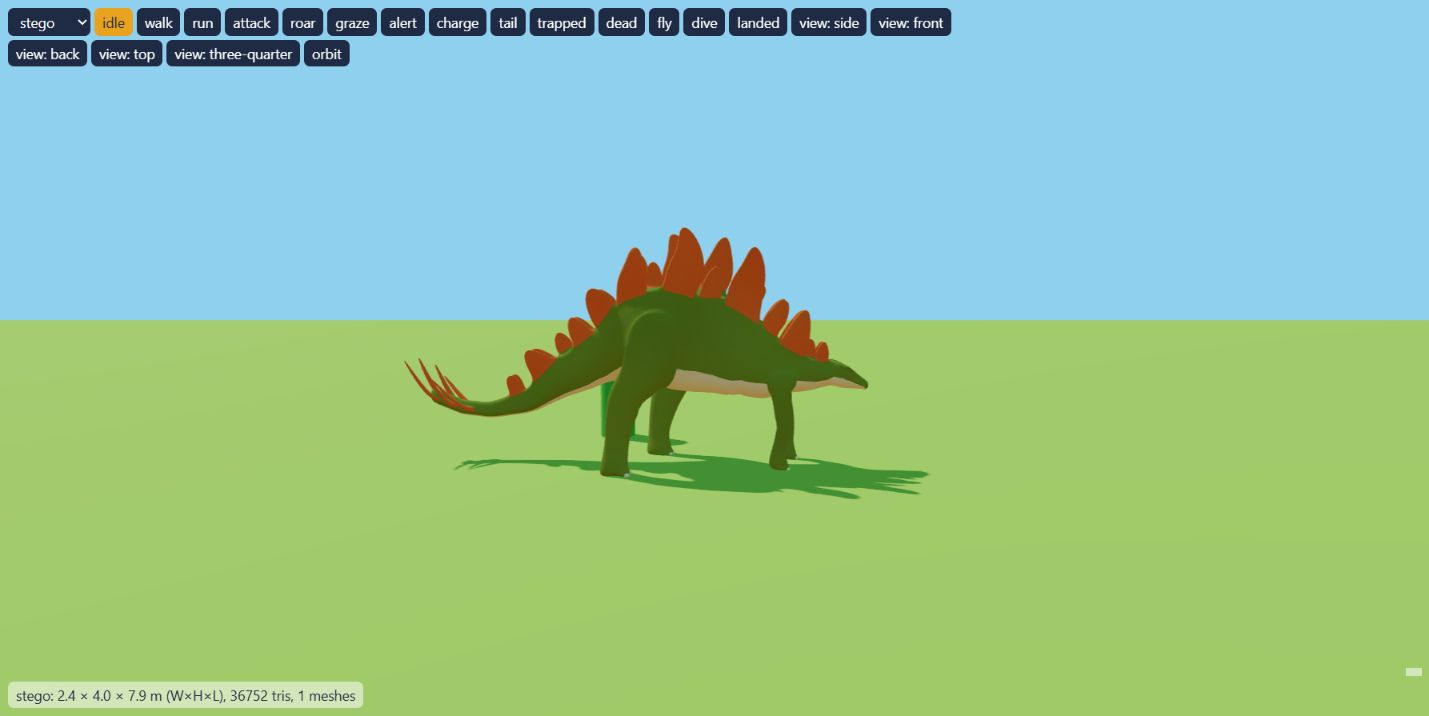
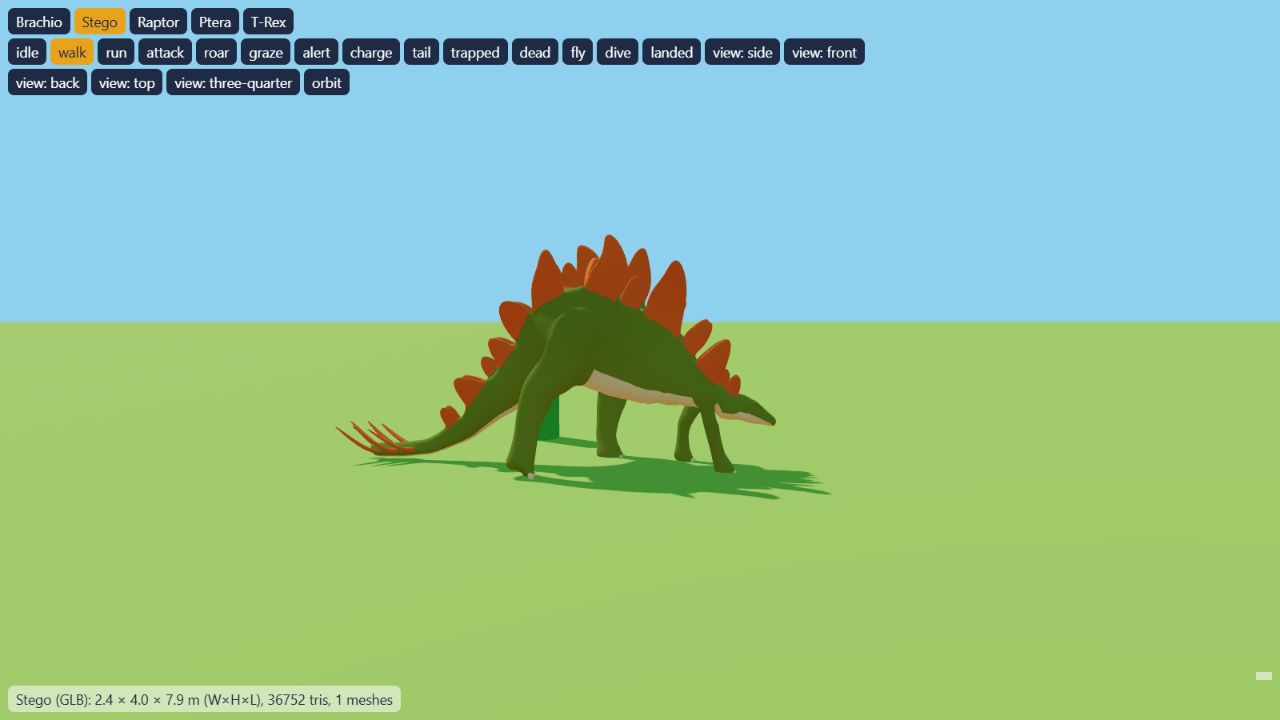
Fix dinosaur preview switching with in-place species buttons

Changed region(s): [[0.25, 0.3073, 0.6562, 0.7067], [0.0, 0.0, 0.6875, 0.1536], [0.0, 0.9525, 0.3125, 1.0]]

diff --git a/src/client/models/dino/preview.html b/src/client/models/dino/preview.html
@@ -10,7 +10,9 @@
   <style>
     :root { color-scheme: light; }
     body { margin: 0; overflow: hidden; background: #8fd0ef; font: 14px system-ui, sans-serif; }
-    #ui { position: fixed; left: 8px; top: 8px; display: flex; flex-wrap: wrap; gap: 4px; max-width: 70vw; }
+    canvas { display: block; }
+    #ui { position: fixed; z-index: 10; left: 8px; top: 8px; display: flex; flex-wrap: wrap; gap: 4px; max-width: min(900px, calc(100vw - 16px)); }
+    #species { display: flex; flex-wrap: wrap; gap: 4px; width: 100%; }
     #ui button, #ui select, #ui label { font: inherit; padding: 4px 8px; border-radius: 6px; border: 0; background: #1f2a44; color: #fff; }
     #ui button[aria-pressed="true"] { background: #e8a21c; color: #1f2a44; }
     #info { position: fixed; left: 8px; bottom: 8px; color: #1f2a44; background: #fff8; padding: 4px 8px; border-radius: 6px; }
@@ -28,13 +30,13 @@
     import { preloadDinoModels } from './glbDino.js';
 
     const qs = new URLSearchParams(location.search);
-    const type = SPECIES[qs.get('type')] ? qs.get('type') : 'brachio';
+    let type = SPECIES[qs.get('type')] ? qs.get('type') : 'brachio';
     document.getElementById('info').textContent = 'Loading dinosaur models…';
     await preloadDinoModels();
-    const species = SPECIES[type];
-    const build = species.build;
-    const ANIM = species.anim;
-    const extra = species.extraUpdate;
+    let species = SPECIES[type];
+    let build = species.build;
+    let ANIM = species.anim;
+    let extra = species.extraUpdate;
 
     const renderer = new THREE.WebGLRenderer({ antialias: true });
     renderer.setPixelRatio(Math.min(devicePixelRatio, 2));
@@ -61,24 +63,28 @@
     ref.castShadow = true;
     scene.add(ref);
 
-    const rig = build();
+    let rig = build();
     scene.add(rig.root);
-    const anim = species.createAnimator(rig);
+    let anim = species.createAnimator(rig);
     // ?count=20 provides a repeatable skin/mixer/render performance scene.
     const count = Math.min(20, Math.max(1, Number(qs.get('count')) || 1));
     const copies = [];
-    for (let i = 1; i < count; i++) {
-      const copy = build();
-      copy.root.position.set((i % 5 - 2) * 4, 0, (Math.floor(i / 5) + 1) * 5);
-      scene.add(copy.root);
-      copies.push({ rig: copy, anim: species.createAnimator(copy), st: 0, spd: 0, pos: copy.root.position });
+    function addCopies() {
+      for (let i = 1; i < count; i++) {
+        const copy = build();
+        copy.root.position.set((i % 5 - 2) * 4, 0, (Math.floor(i / 5) + 1) * 5);
+        scene.add(copy.root);
+        copies.push({ rig: copy, anim: species.createAnimator(copy), st: 0, spd: 0, pos: copy.root.position });
+      }
     }
+    addCopies();
     const box = new THREE.Box3().setFromObject(rig.root, true);   // precise: skinned vertices, not culling bounds
     const size = box.getSize(new THREE.Vector3());
     const camera = new THREE.PerspectiveCamera(45, innerWidth / innerHeight, 0.1, 500);
     const zoom = parseFloat(qs.get('zoom') || '1');
     const focus = qs.get('focus') || 'body';   // body | head
-    const R = (focus === 'head' ? Math.max(size.x, size.y, size.z) * 0.5 + 1 : Math.max(size.x, size.y, size.z) * 1.6 + 2) / zoom;
+    const cameraRadius = () => (focus === 'head' ? Math.max(size.x, size.y, size.z) * 0.5 + 1 : Math.max(size.x, size.y, size.z) * 1.6 + 2) / zoom;
+    let R = cameraRadius();
     const _fp = new THREE.Vector3();
 
     const STATES = ['idle', 'walk', 'run', 'attack', 'roar', 'graze', 'alert', 'charge', 'tail', 'trapped', 'dead', 'fly', 'dive', 'landed'];
@@ -86,16 +92,26 @@
     let view = qs.get('view') || 'side';
     let orbit = qs.get('orbit') === '1';
     const ui = document.getElementById('ui');
-    const select = document.createElement('select');
-    select.setAttribute('aria-label', 'Dinosaur species');
-    for (const name of Object.keys(SPECIES)) select.add(new Option(name, name, false, name === type));
-    select.onchange = () => { qs.set('type', select.value); qs.set('state', state); location.search = qs; };
-    ui.appendChild(select);
+    const speciesRow = document.createElement('div');
+    speciesRow.id = 'species';
+    speciesRow.setAttribute('role', 'group');
+    speciesRow.setAttribute('aria-label', 'Dinosaur species');
+    const speciesButtons = {};
+    const speciesNames = { brachio: 'Brachio', stego: 'Stego', raptor: 'Raptor', ptera: 'Ptera', trex: 'T-Rex' };
+    for (const name of Object.keys(SPECIES)) {
+      const button = document.createElement('button');
+      button.textContent = speciesNames[name];
+      button.setAttribute('aria-pressed', name === type);
+      button.onclick = () => switchSpecies(name);
+      speciesButtons[name] = button;
+      speciesRow.appendChild(button);
+    }
+    ui.appendChild(speciesRow);
     const btns = {};
     for (const s of STATES) {
       const b = document.createElement('button');
       b.textContent = s;
-      b.onclick = () => { state = s; for (const k in btns) btns[k].setAttribute('aria-pressed', k === state); };
+      b.onclick = () => { state = s; t = 0; for (const k in btns) btns[k].setAttribute('aria-pressed', k === state); syncURL(); };
       b.setAttribute('aria-pressed', s === state);
       btns[s] = b;
       ui.appendChild(b);
@@ -103,24 +119,51 @@
     for (const v of ['side', 'front', 'back', 'top', 'three-quarter']) {
       const b = document.createElement('button');
       b.textContent = `view: ${v}`;
-      b.onclick = () => { view = v; };
+      b.onclick = () => { view = v; syncURL(); };
       ui.appendChild(b);
     }
     const ob = document.createElement('button');
     ob.textContent = 'orbit';
-    ob.onclick = () => { orbit = !orbit; };
+    ob.onclick = () => { orbit = !orbit; syncURL(); };
     ui.appendChild(ob);
-    document.getElementById('info').textContent = `${type}: ${size.x.toFixed(1)} × ${size.y.toFixed(1)} × ${size.z.toFixed(1)} m (W×H×L), ${countTris(rig.root)} tris, ${countMeshes(rig.root)} meshes`;
+    function updateInfo() {
+      document.getElementById('info').textContent = `${speciesNames[type]} (${rig.isGLB ? 'GLB' : 'procedural'}): ${size.x.toFixed(1)} × ${size.y.toFixed(1)} × ${size.z.toFixed(1)} m (W×H×L), ${countTris(rig.root)} tris, ${countMeshes(rig.root)} meshes`;
+    }
+    updateInfo();
 
     function countTris(o) { let n = 0; o.traverse((m) => { if (m.isMesh) n += (m.geometry.index ? m.geometry.index.count : m.geometry.attributes.position.count) / 3; }); return Math.round(n); }
     function countMeshes(o) { let n = 0; o.traverse((m) => { if (m.isMesh) n++; }); return n; }
 
-    const speeds = { idle: 0, walk: ANIM.walkSpeed ?? 2, run: ANIM.runSpeed ?? 6, charge: ANIM.runSpeed ?? 6, fly: 11, dive: 20, landed: 0 };
+    const previewSpeeds = () => ({ idle: 0, walk: ANIM.walkSpeed ?? 2, run: ANIM.runSpeed ?? 6, charge: ANIM.runSpeed ?? 6, fly: 11, dive: 20, landed: 0 });
+    let speeds = previewSpeeds();
     const clock = new THREE.Clock();
     let t = 0;
     const frameSamples = [];
     const updateSamples = [];
-    const fakeView = { rig, anim, st: 0, spd: 0, pos: rig.root.position, yaw: 0, time: 0 };
+    let fakeView = { rig, anim, st: 0, spd: 0, pos: rig.root.position, yaw: 0, time: 0 };
+    function syncURL() {
+      qs.set('type', type); qs.set('state', state); qs.set('view', view); qs.set('orbit', orbit ? '1' : '0');
+      history.replaceState(null, '', `${location.pathname}?${qs}`);
+    }
+    function switchSpecies(nextType) {
+      if (nextType === type) return;
+      for (const old of [{ rig, anim }, ...copies]) {
+        scene.remove(old.rig.root);
+        old.anim.dispose?.(); old.rig.dispose?.();
+      }
+      copies.length = 0;
+      type = nextType; species = SPECIES[type];
+      build = species.build; ANIM = species.anim; extra = species.extraUpdate;
+      rig = build(); anim = species.createAnimator(rig);
+      scene.add(rig.root); addCopies();
+      box.setFromObject(rig.root, true).getSize(size);
+      R = cameraRadius(); speeds = previewSpeeds();
+      fakeView = { rig, anim, st: 0, spd: 0, pos: rig.root.position, yaw: 0, time: 0 };
+      t = 0; frameSamples.length = 0; updateSamples.length = 0;
+      document.getElementById('perf').textContent = '';
+      for (const [name, button] of Object.entries(speciesButtons)) button.setAttribute('aria-pressed', name === type);
+      updateInfo(); syncURL();
+    }
     const DSMAP = { idle: 0, walk: 1, run: 2, alert: 4, attack: 5, charge: 6, tail: 7, trapped: 9, dead: 10, fly: 11, dive: 12, landed: 13, roar: 14, graze: 15 };
     function loop() {
       requestAnimationFrame(loop);

diff --git a/art/validation/dinosaur-models.md b/art/validation/dinosaur-models.md
@@ -49,6 +49,9 @@ camera in alert, charge and attack states.
 - Browser preview: all five species smoke-tested through idle, walk, run,
   attack, roar, graze, alert, charge, tail, trapped and dead. Ptera also tested
   through fly, dive and landed. No console warnings or errors.
+- Species switching uses visible buttons and replaces the rigs in place without
+  reloading. Direct clicks and keyboard activation verified for GLB/procedural
+  switches; animation state is preserved and the camera refits to the new model.
 - Solo mode: loading completed and the island/HUD appeared without console
   errors. Full combat and multiplayer play were not exercised in-browser.
 - Preview `?type=stego&state=run&count=20`: 735,082 rendered triangles,
